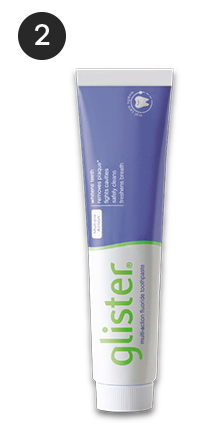
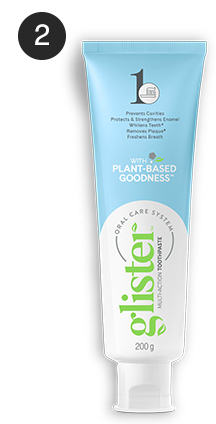
Fix detalles glister

diff --git a/src/app/components/solution-detail/solution-detail.component.ts b/src/app/components/solution-detail/solution-detail.component.ts
@@ -31,15 +31,15 @@ export class SolutionDetailComponent implements OnInit {
             border: '#e16f64',
             products: [
                 {
-                    name: 'Daily Plus (90 tabs)',
+                    name: 'Nutrilite™ Daily Plus (90 tabs)',
                     img: 'assets/imgs/Soluciones/ELEMENT_1.png'
                 },
                 {
-                    name: 'Cal Mag D (90 tabs)',
+                    name: 'Nutrilite™ Cal Mag D (90 tabs)',
                     img: 'assets/imgs/Soluciones/ELEMENT_2.png'
                 },
                 {
-                    name: 'Proteína Vegetal (450 gr)',
+                    name: 'Nutrilite™ Proteína Vegetal (450 gr)',
                     img: 'assets/imgs/Soluciones/ELEMENT_3.png'
                 }
             ]
@@ -57,15 +57,15 @@ export class SolutionDetailComponent implements OnInit {
             border: '#b55afe',
             products: [
                 {
-                    name: 'Omega 3 Plus (90 tabs)',
+                    name: 'Nutrilite™ Omega 3 Plus (90 tabs)',
                     img: 'assets/imgs/Soluciones/ELEMENT_4.png'
                 },
                 {
-                    name: 'Daily Plus (90 tabs)',
+                    name: 'Nutrilite™ Daily Plus (90 tabs)',
                     img: 'assets/imgs/Soluciones/ELEMENT_5.png'
                 },
                 {
-                    name: 'C Plus (60 tabs)',
+                    name: 'Nutrilite™ C Plus (60 tabs)',
                     img: 'assets/imgs/Soluciones/ELEMENT_6.png'
                 }
             ]
@@ -83,7 +83,7 @@ export class SolutionDetailComponent implements OnInit {
             border: '#539cf8',
             products: [
                 {
-                    name: 'Cal Mag D (90 tabs)',
+                    name: ' Nutrilite™ Cal Mag D (90 tabs)',
                     img: 'assets/imgs/Soluciones/ELEMENT_8.png'
                 },
                 {
@@ -105,15 +105,15 @@ export class SolutionDetailComponent implements OnInit {
             border: '#b55afe',
             products: [
                 {
-                    name: 'Daily Plus (30/90 tabs)',
+                    name: 'Nutrilite™ Daily Plus (30/90 tabs)',
                     img: 'assets/imgs/Soluciones/ELEMENT_1.png'
                 },
                 {
-                    name: 'HSN',
+                    name: 'Nutrilite™ HSN',
                     img: 'assets/imgs/Soluciones/ELEMENT_14.png'
                 },
                 {
-                    name: 'Agua Micelar Skin Nutrition',
+                    name: 'Nutrilite™ Agua Micelar Skin Nutrition',
                     img: 'assets/imgs/Soluciones/ELEMENT_15.png'
                 }
             ]
@@ -131,15 +131,15 @@ export class SolutionDetailComponent implements OnInit {
             border: '#76C655',
             products: [
                 {
-                    name: 'Omega 3 Plus (30/60 TAB)',
+                    name: 'Nutrilite™ Omega 3 Plus (30/60 TAB)',
                     img: 'assets/imgs/Soluciones/ELEMENT_4.png'
                 },
                 {
-                    name: 'Proteína Vegetal (450 gr)',
+                    name: 'Nutrilite™ Proteína Vegetal (450 gr)',
                     img: 'assets/imgs/Soluciones/ELEMENT_16.png'
                 },
                 {
-                    name: 'B Plus (60 tabs)',
+                    name: 'Nutrilite™ B Plus (60 tabs)',
                     img: 'assets/imgs/Soluciones/ELEMENT_11.png'
                 }
             ]
@@ -157,11 +157,11 @@ export class SolutionDetailComponent implements OnInit {
             border: '#ff7062',
             products: [
                 {
-                    name: 'Omega 3 Plus (90 tabs)',
+                    name: 'Nutrilite™ Omega 3 Plus (90 tabs)',
                     img: 'assets/imgs/Soluciones/ELEMENT_4.png'
                 },
                 {
-                    name: 'Daily Plus (90 tabs)',
+                    name: 'Nutrilite™ Daily Plus (90 tabs)',
                     img: 'assets/imgs/Soluciones/ELEMENT_10.png'
                 },
             ]
@@ -179,7 +179,7 @@ export class SolutionDetailComponent implements OnInit {
             border: '#4e9efb',
             products: [
                 {
-                    name: 'B Plus (60 tabs)',
+                    name: 'Nutrilite™ B Plus (60 tabs)',
                     img: 'assets/imgs/Soluciones/ELEMENT_12.png'
                 },
                 {
@@ -187,7 +187,7 @@ export class SolutionDetailComponent implements OnInit {
                     img: 'assets/imgs/Soluciones/ELEMENT_7.png'
                 },
                 {
-                    name: 'L.O.C Limpiador Multiusos',
+                    name: 'Nutrilite™ L.O.C Limpiador Multiusos',
                     img: 'assets/imgs/Soluciones/ELEMENT_13.png'
                 }
             ]

diff --git a/src/app/components/product-detail/product-detail.component.ts b/src/app/components/product-detail/product-detail.component.ts
@@ -175,8 +175,8 @@ export class ProductDetailComponent implements OnInit {
             productFlag:18,
             id: 9, name: 'Pasta de Dientes',
             slogan: 'Consigue una sonrisa radiante donde quiera que vayas', 
-            modeOfUse: 'Coloca un poco de pasta sobre tu cepillo dental, lávate los dientes, enjuaga. Lávate los dientes después de cada comida.',
-            description: 'Con su fórmula REMINACT™, <span class="purple">fortalecerás tus dientes</span>, aportando el <span class="purple">calcio</span> y el <span class="purple">fósforo</span> que han perdido, además de reparar el esmalte. Su boquilla es 44% más pequeña en comparación que otras pastas, para que ahorres a la hora de usarlo.<br><br> Entre sus beneficios está el <span class="purple">pulir</span> suavemente los dientes, <span class="purple">limpieza efectiva</span> y ayuda a mantener el tono natural de tus dientes.', 
+            modeOfUse: 'Colocar un poco de pasta sobre tu cepillo dental Glister, lava tus dientes durante dos minutos y enjuaga.',
+            description: 'Ayuda a eliminar la placa, limpia eficazmente y ayuda a disminuir las manchas por consumo de café, té y tabaco.<br><br>Contiene nuestra exclusiva fórmula REMINACT que promueve la remineralización ayudando a depositar minerales nuevamente en el esmalte para fortalecer los dientes y hacerlos más resistentes a las caries.<br><br>Fórmula actualizada con Plant-Based Goodness que incluye una mezcla mejorada de sabor a menta certificada por Nutrilite.', 
             img: 'assets/imgs/Pasta_de_dientes/ICON_5.png',
             icon: 'assets/imgs/Pasta_de_dientes/ICON_4.png',
             footer: '',

diff --git a/src/app/components/why-irresistibles/why-irresistibles.component.html b/src/app/components/why-irresistibles/why-irresistibles.component.html
@@ -1,5 +1,5 @@
 <div class="element-style">
-    <img src="assets/imgs/Productos/img 11.jpg" draggable="false" class="banner-img" alt="">
+    <img src="assets/imgs/Productos/img 11.png" draggable="false" class="banner-img" alt="">
 </div>
 <div class="why-irresistible" >
     
@@ -107,6 +107,14 @@
                     <div class="text-center img-card">
                         <img src="assets/imgs/Por_Que_Naturales/ICON_3.png" class="logos-icon" draggable="false" alt="">
                         <br>
+                        <button (click)="navigateTo(['tool', '7'])" class="general-btn mb1">Conoce más</button>
+                    </div>
+                </div>
+                <div class="col-12 col-md-6" style="padding: 2rem;" >
+                    <div class="text-center img-card">
+                        <img src="assets/imgs/Por_Que_Naturales/ICON_10.png" class="logos-icon" draggable="false" alt="">
+                        <br>
+                        <button (click)="navigateTo(['tool', '7'])" class="general-btn mb1">Conoce más</button>
                     </div>
                 </div>
             </div>

diff --git a/src/app/components/tools/tools.component.ts b/src/app/components/tools/tools.component.ts
@@ -72,6 +72,16 @@ export class ToolsComponent implements OnInit {
             description: 'Saber vender es algo que se aprende y se practica. Para formarte tenemos los Entrenamientos INA. Descarga el calendario de los próximos eventos y participa.'
         }
     ]
+    public tools6: Array<any> = [
+        {
+            id: 7,
+            img: 'assets/imgs/Herramientas/ICON_8.png',
+            name: 'Dr. Glister',
+            btn: 'Ir a Dr. Glister',
+            link: 'https://www.amway.com.mx/downloads/misc/Calendario_Integrado_INA_LATAM.pdf',
+            description: 'Dime tu rutina de cuidado bucal y te dire que productos debes usar. Dr. Glister llego para ayudarte a tener tu rutina ideal y conseguir una sonrisa radiante.'
+        }
+    ]
     constructor(private router: Router) { }
 
     ngOnInit(): void {

diff --git a/src/app/components/tools/tools.component.html b/src/app/components/tools/tools.component.html
@@ -71,6 +71,18 @@
                     </div>
                 </div>
             </div>
+            <div *ngFor="let tool of tools6" class="col-12 col-md-4">
+                <div class="tools-card">
+                    <img [src]="tool.img" draggable="false" alt="">
+                    <div class="content">
+                        <div>
+                            <h6 class="general-small-text bold-text" >{{ tool.name }}</h6>
+                            <small class="general-small-text mb2">{{ tool.description }}</small>
+                        </div>
+                        <button (click)="navigateTo(['tool', tool.id])" class="general-btn" >{{ tool.btn }}</button>
+                    </div>
+                </div>
+            </div>
         </div>
     </div> 
 

diff --git a/src/app/components/solution-detail/solution-detail.component.html b/src/app/components/solution-detail/solution-detail.component.html
@@ -87,7 +87,7 @@
                         <ol class="solution-list">
                             
                             <li *ngFor="let product of solution.products; let i = index">
-                                <h5 class="">{{ (i + 1) }}. Nutrilite™ {{product.name }}</h5>
+                                <h5 class="">{{ (i + 1) }}. {{product.name }}</h5>
                             </li> 
                             <small class="general-small-text mb2" style="color: #777; display: block; margin-top: 3rem;">*PRODUCTO DE REFERENCIA, CONSULTA DISPONIBILIDAD EN TU PAÍS.</small>
                         </ol>

diff --git a/src/app/components/products/products.component.ts b/src/app/components/products/products.component.ts
@@ -34,7 +34,7 @@ export class ProductsComponent implements OnInit {
         { id: 6, name: 'B Plus / B Complex Dual Release', img: 'assets/imgs/Productos/IMG_6.jpg' },
         { id: 7, name: 'HSN', img: 'assets/imgs/Productos/IMG_7.jpg' },
         { id: 8, name: 'Agua Micelar', img: 'assets/imgs/Productos/IMG_8.jpg' },
-        { id: 9, name: 'Pasta de Dientes', img: 'assets/imgs/Productos/IMG_9.jpg' },
+        { id: 9, name: 'Pasta de Dientes', img: 'assets/imgs/Productos/IMG_12.png' },
         { id: 10, name: 'L.O.C. Limpiador Multiusos', img: 'assets/imgs/Productos/IMG_10.jpg' }
     ];
     
